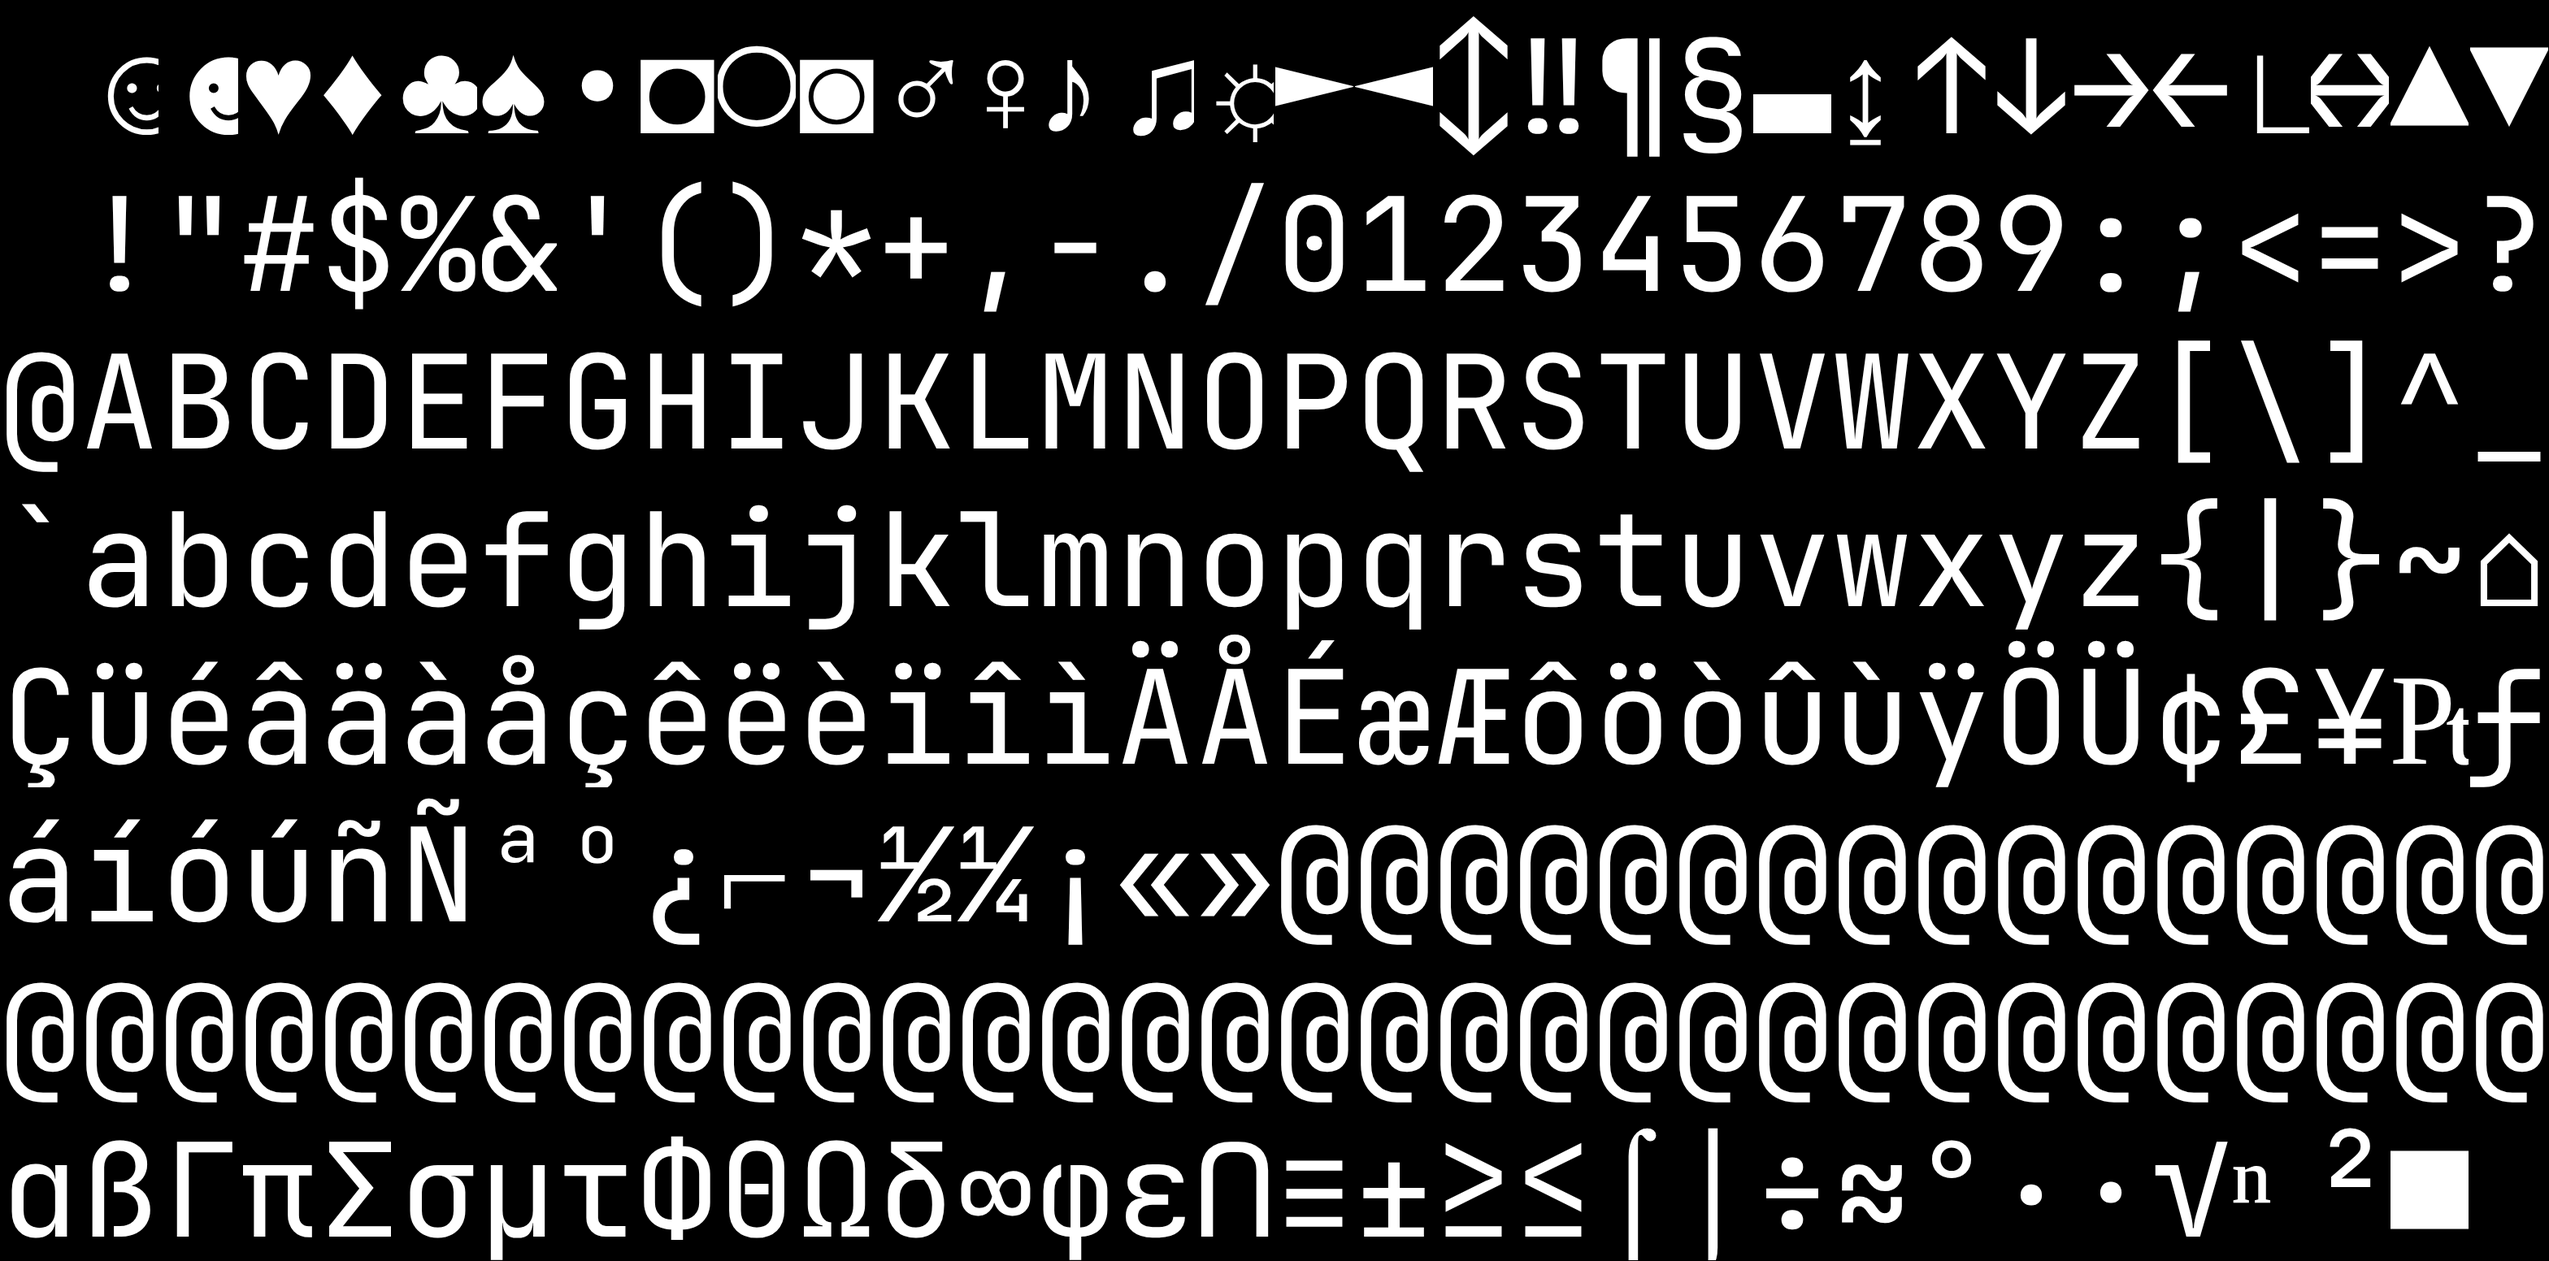
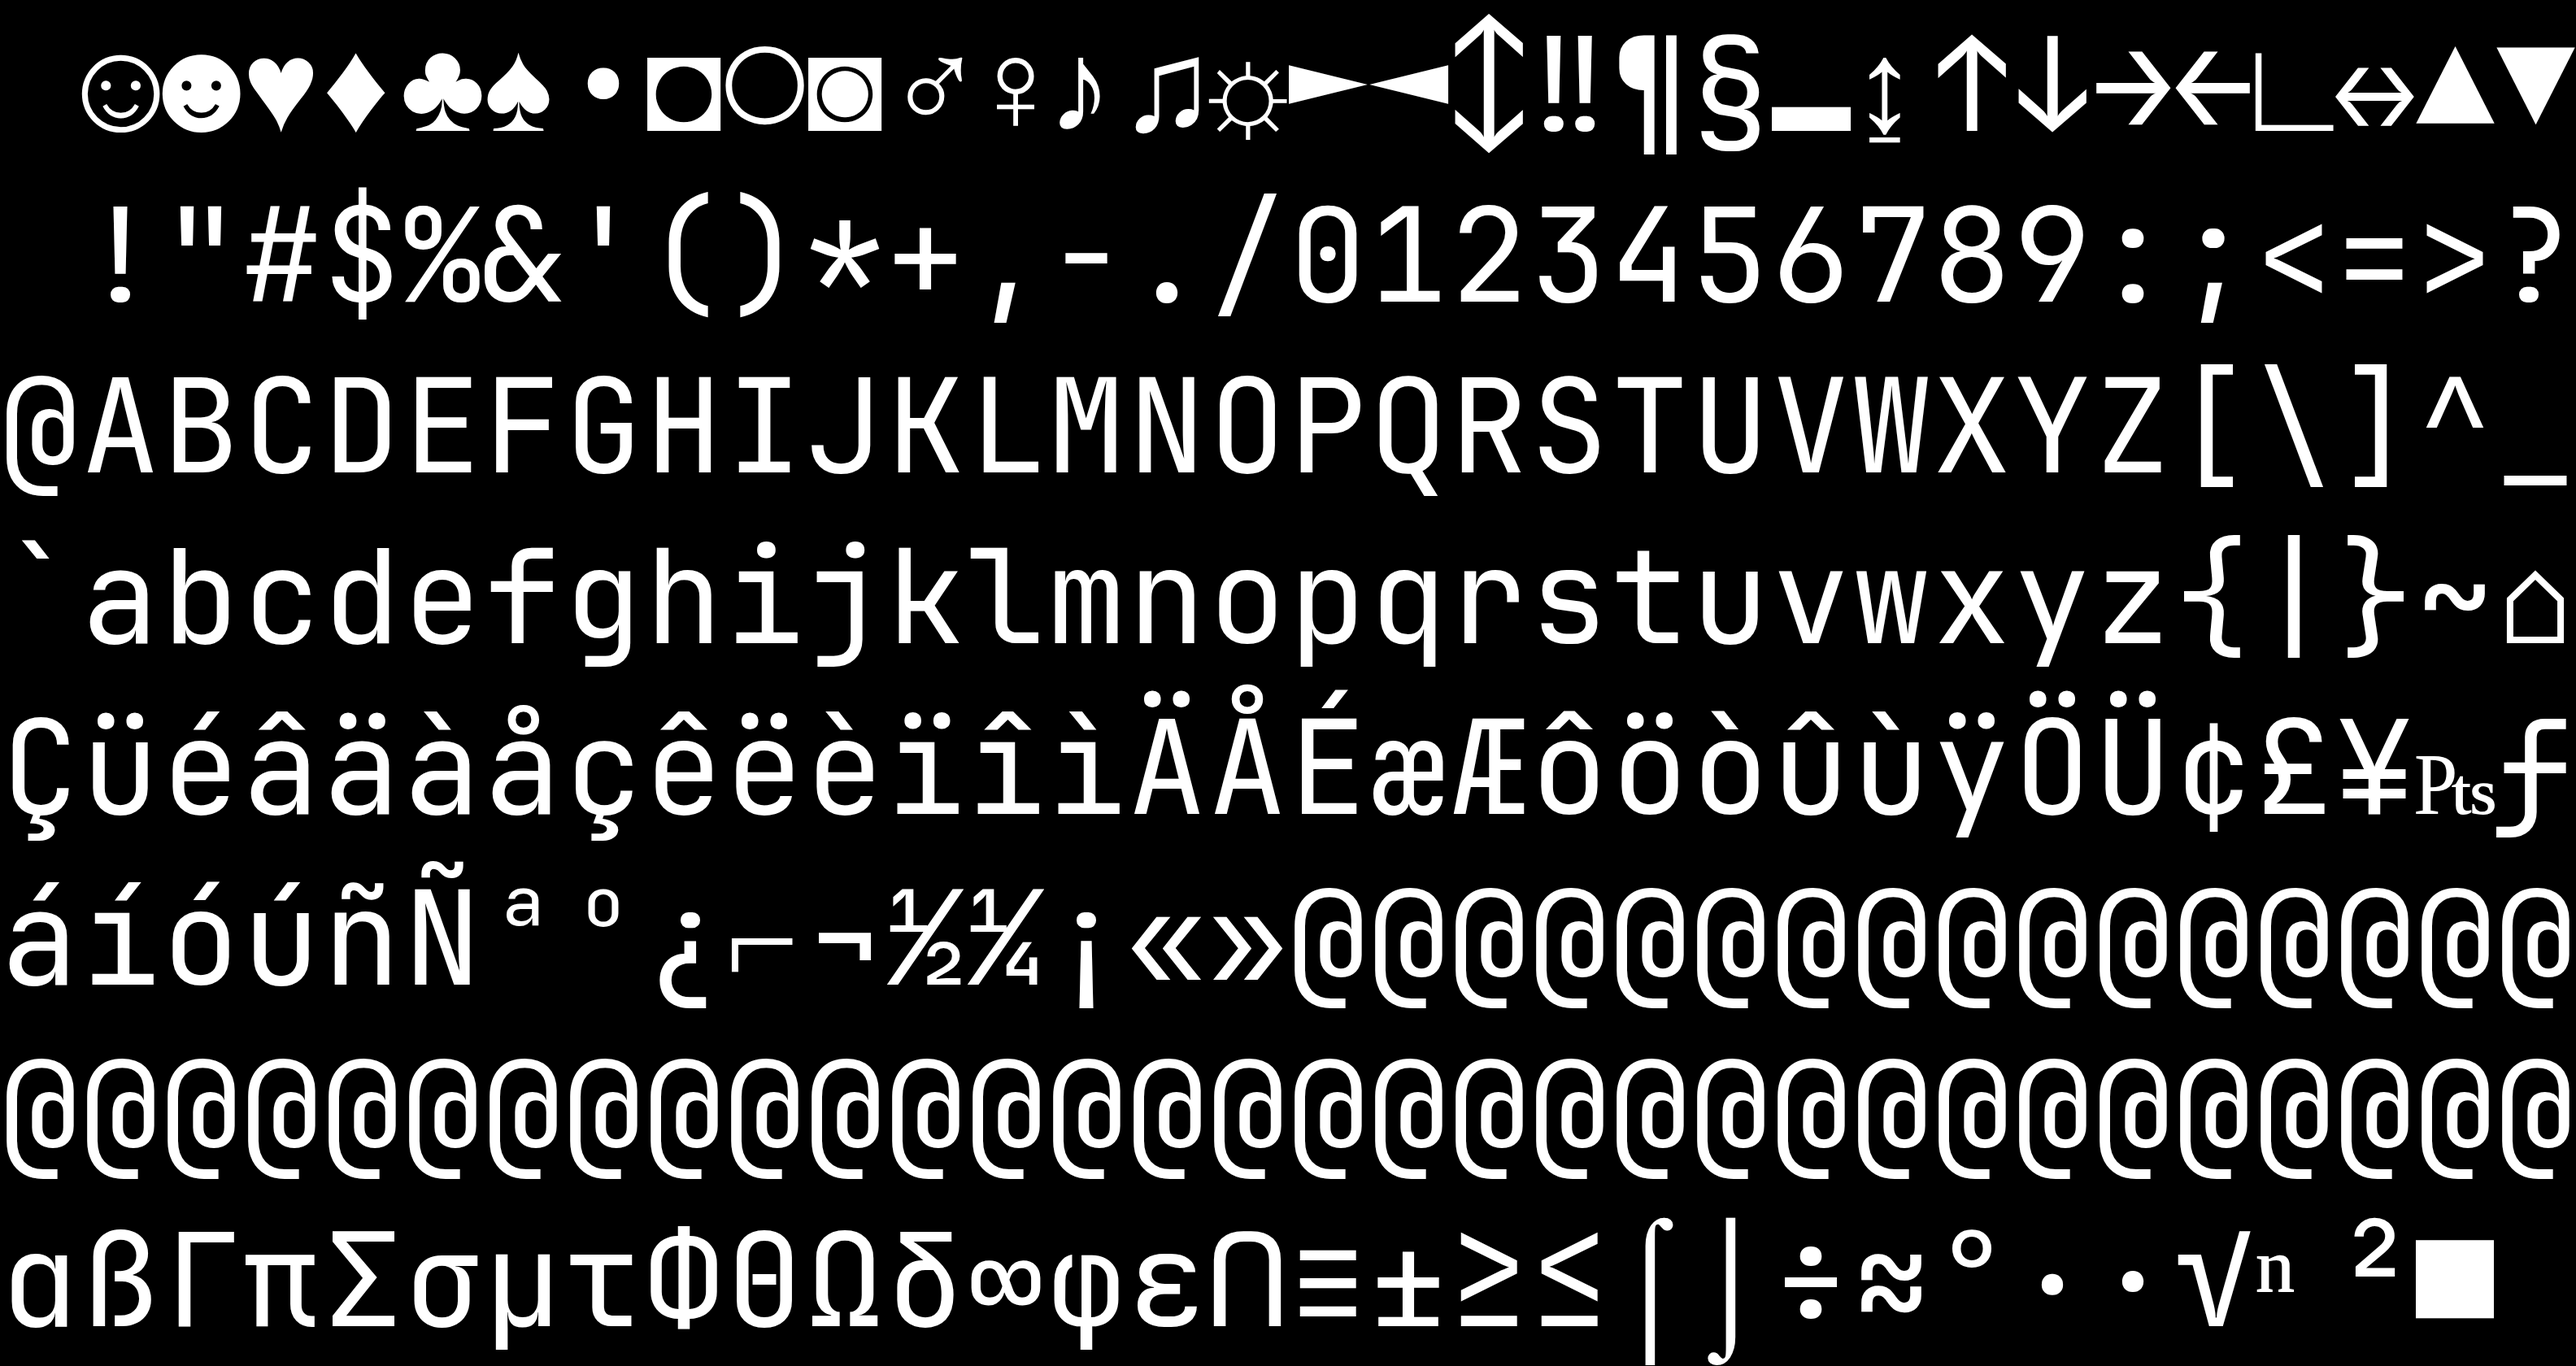
Update cp437 page

diff --git a/public/cp437.html b/public/cp437.html
@@ -1,6 +1,8 @@
 <!doctype HTML>
 <html>
 	<head>
+		<meta charset="utf-8" />
+		<meta name="viewport" content="width=device-width, initial-scale=1.0" />
 		<title>Glyph Atlas</title>
 		<link rel="icon" href="/favicon.svg" type="image/svg+xml" />
 		<link rel="icon" href="/favicon-16.png" type="image/png" sizes="16x16" />
@@ -19,6 +21,6 @@
 		<script type="module" src="/index.js"></script>
 	</head>
 	<body>
-		<canvas id="2d"></canvas>
+		<canvas id="atlas"></canvas>
 	</body>
 </html>

diff --git a/public/cp437.css b/public/cp437.css
@@ -6,22 +6,21 @@
 	font-display: block;
 }
 
-html {
+html,
+body {
 	margin: 0;
 	padding: 0;
 }
 
 body {
-	background-color: gray;
-	color: white;
-	margin: 0;
-	padding: 0;
-	width: 100svw;
-	height: 100svh;
-	overflow: hidden;
+	background-color: #141415;
+	color: #cdcdcd;
+	font-family: "JetBrains Mono", monospace;
 }
 
-#webgl {
+/* the atlas is much wider than it is tall, so it fits across the page */
+#atlas {
+	display: block;
 	width: 100%;
-	height: 100%;
+	height: auto;
 }

diff --git a/src/index.ts b/src/index.ts
@@ -6,7 +6,7 @@ import { vi_page } from "./pages/vi.ts";
 
 // cp437.html
 async function render() {
-	const canvas = document.getElementById("2d") as HTMLCanvasElement;
+	const canvas = document.getElementById("atlas") as HTMLCanvasElement;
 	const font = "160px 'JetBrains Mono'";
 	await tscon.renderCp437(canvas, font);
 }
